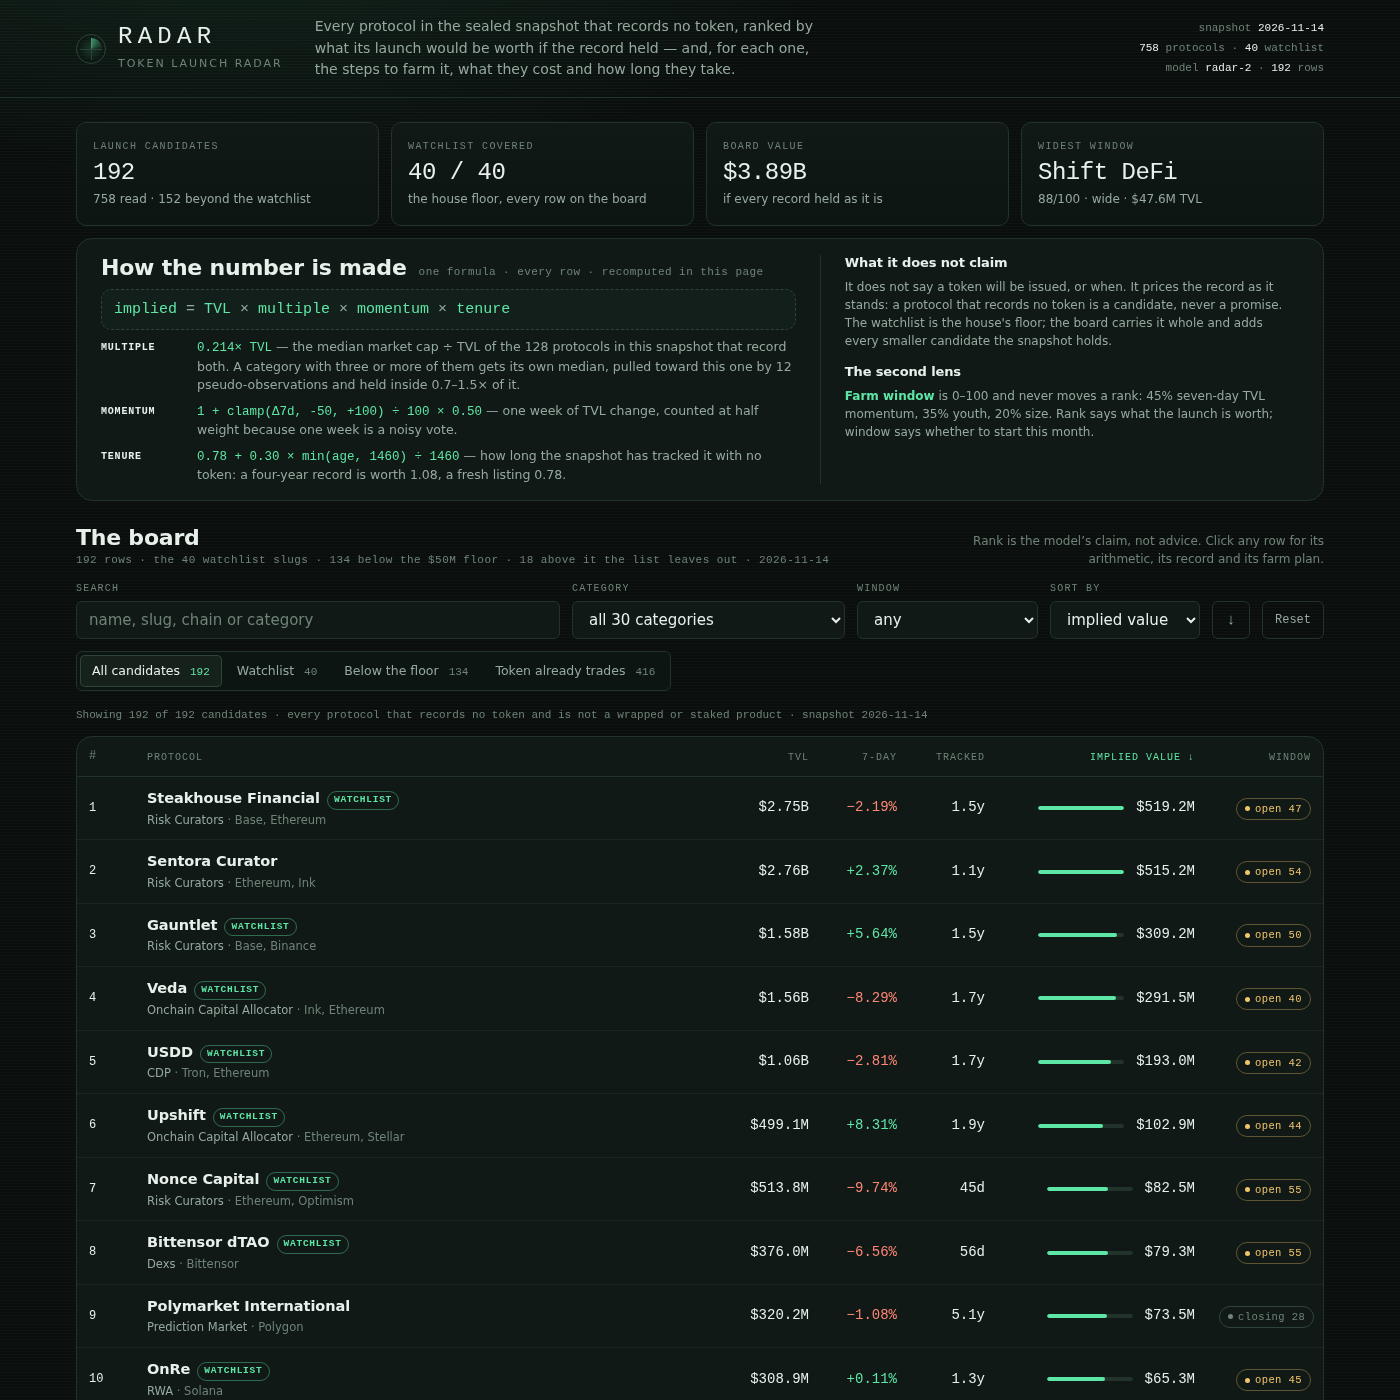
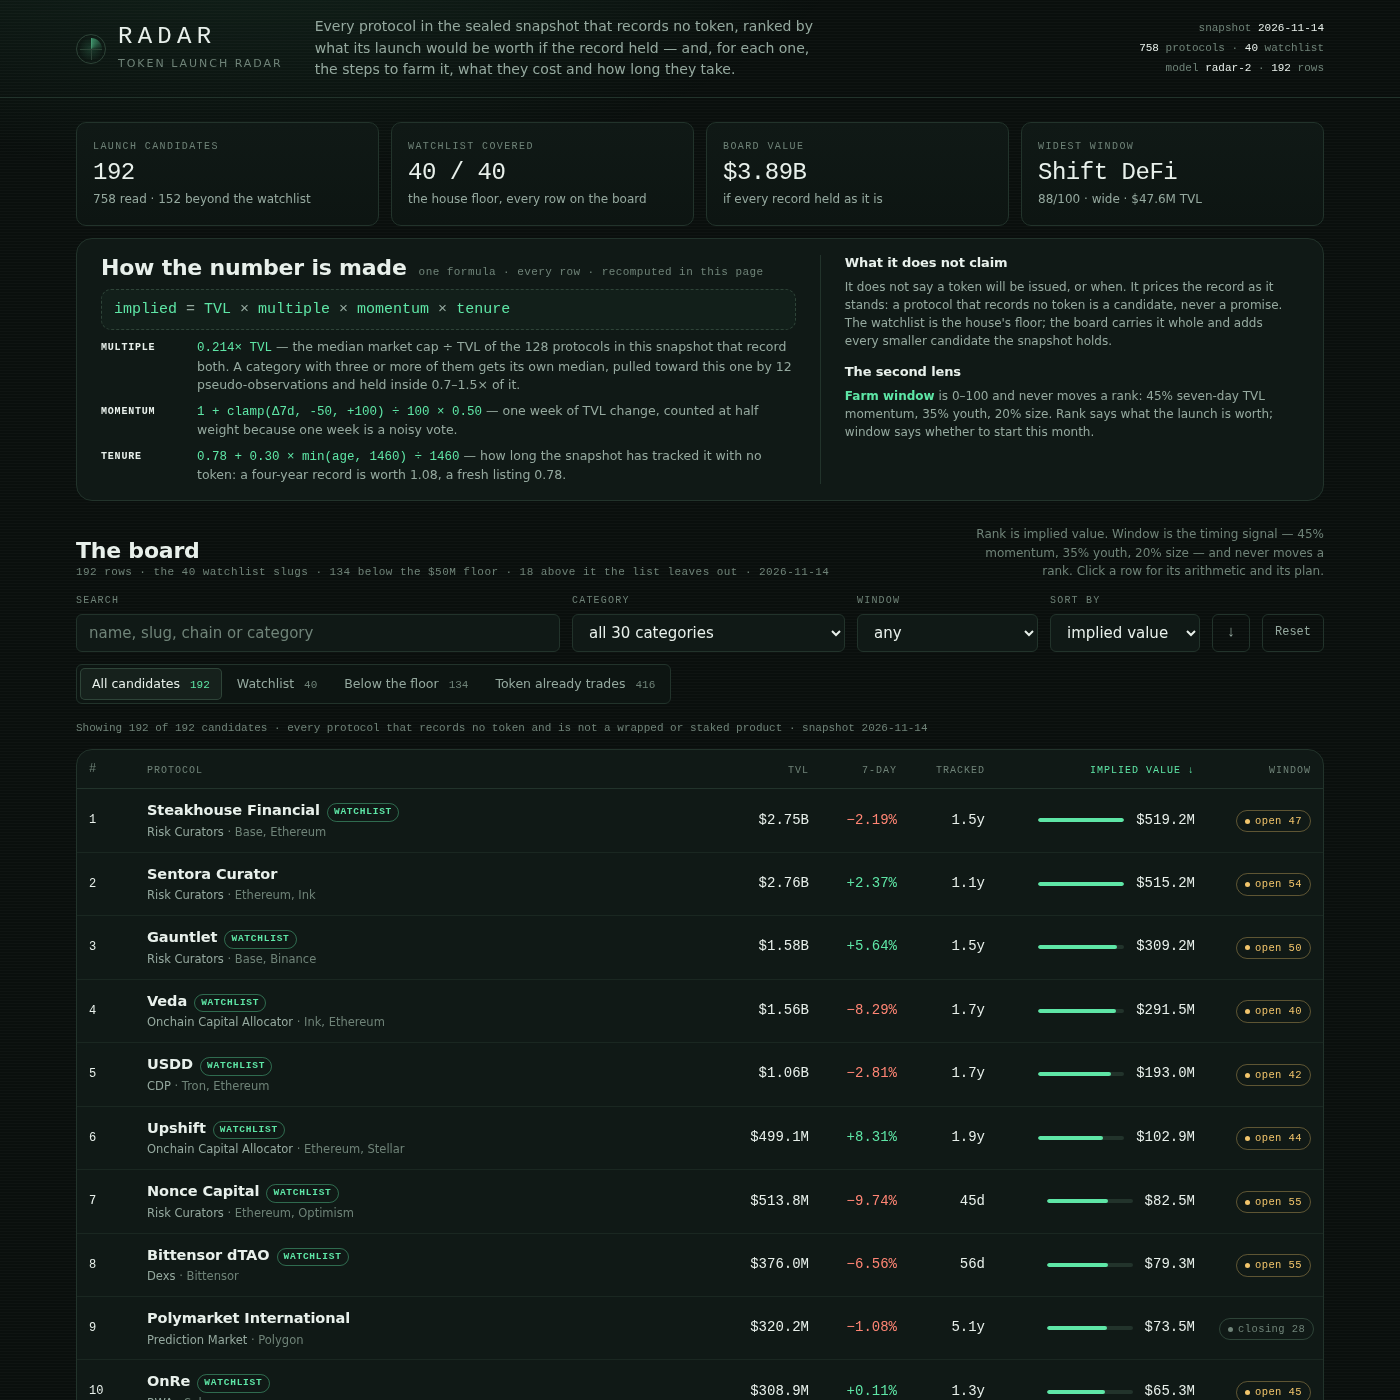
dashboard: explain the window column on the board itself
The board's right-hand note now says what the two numeric columns are: rank is the implied value,
window is the 45/35/20 timing signal and never moves a rank. Screenshots re-rendered from the page.

diff --git a/dashboard/app.js b/dashboard/app.js
@@ -634,7 +634,7 @@
     ' below the $' + (DATA.floor_usd / 1e6).toFixed(0) + 'M floor · ' + DATA.counts.above_floor_off_list +
     ' above it the list leaves out · ' + DATA.as_of;
   document.getElementById('board-note').textContent =
-    'Rank is the model’s claim, not advice. Click any row for its arithmetic, its record and its farm plan.';
+    'Rank is implied value. Window is the timing signal — 45% momentum, 35% youth, 20% size — and never moves a rank. Click a row for its arithmetic and its plan.';
   bind();
   syncControls();
   renderTable();
